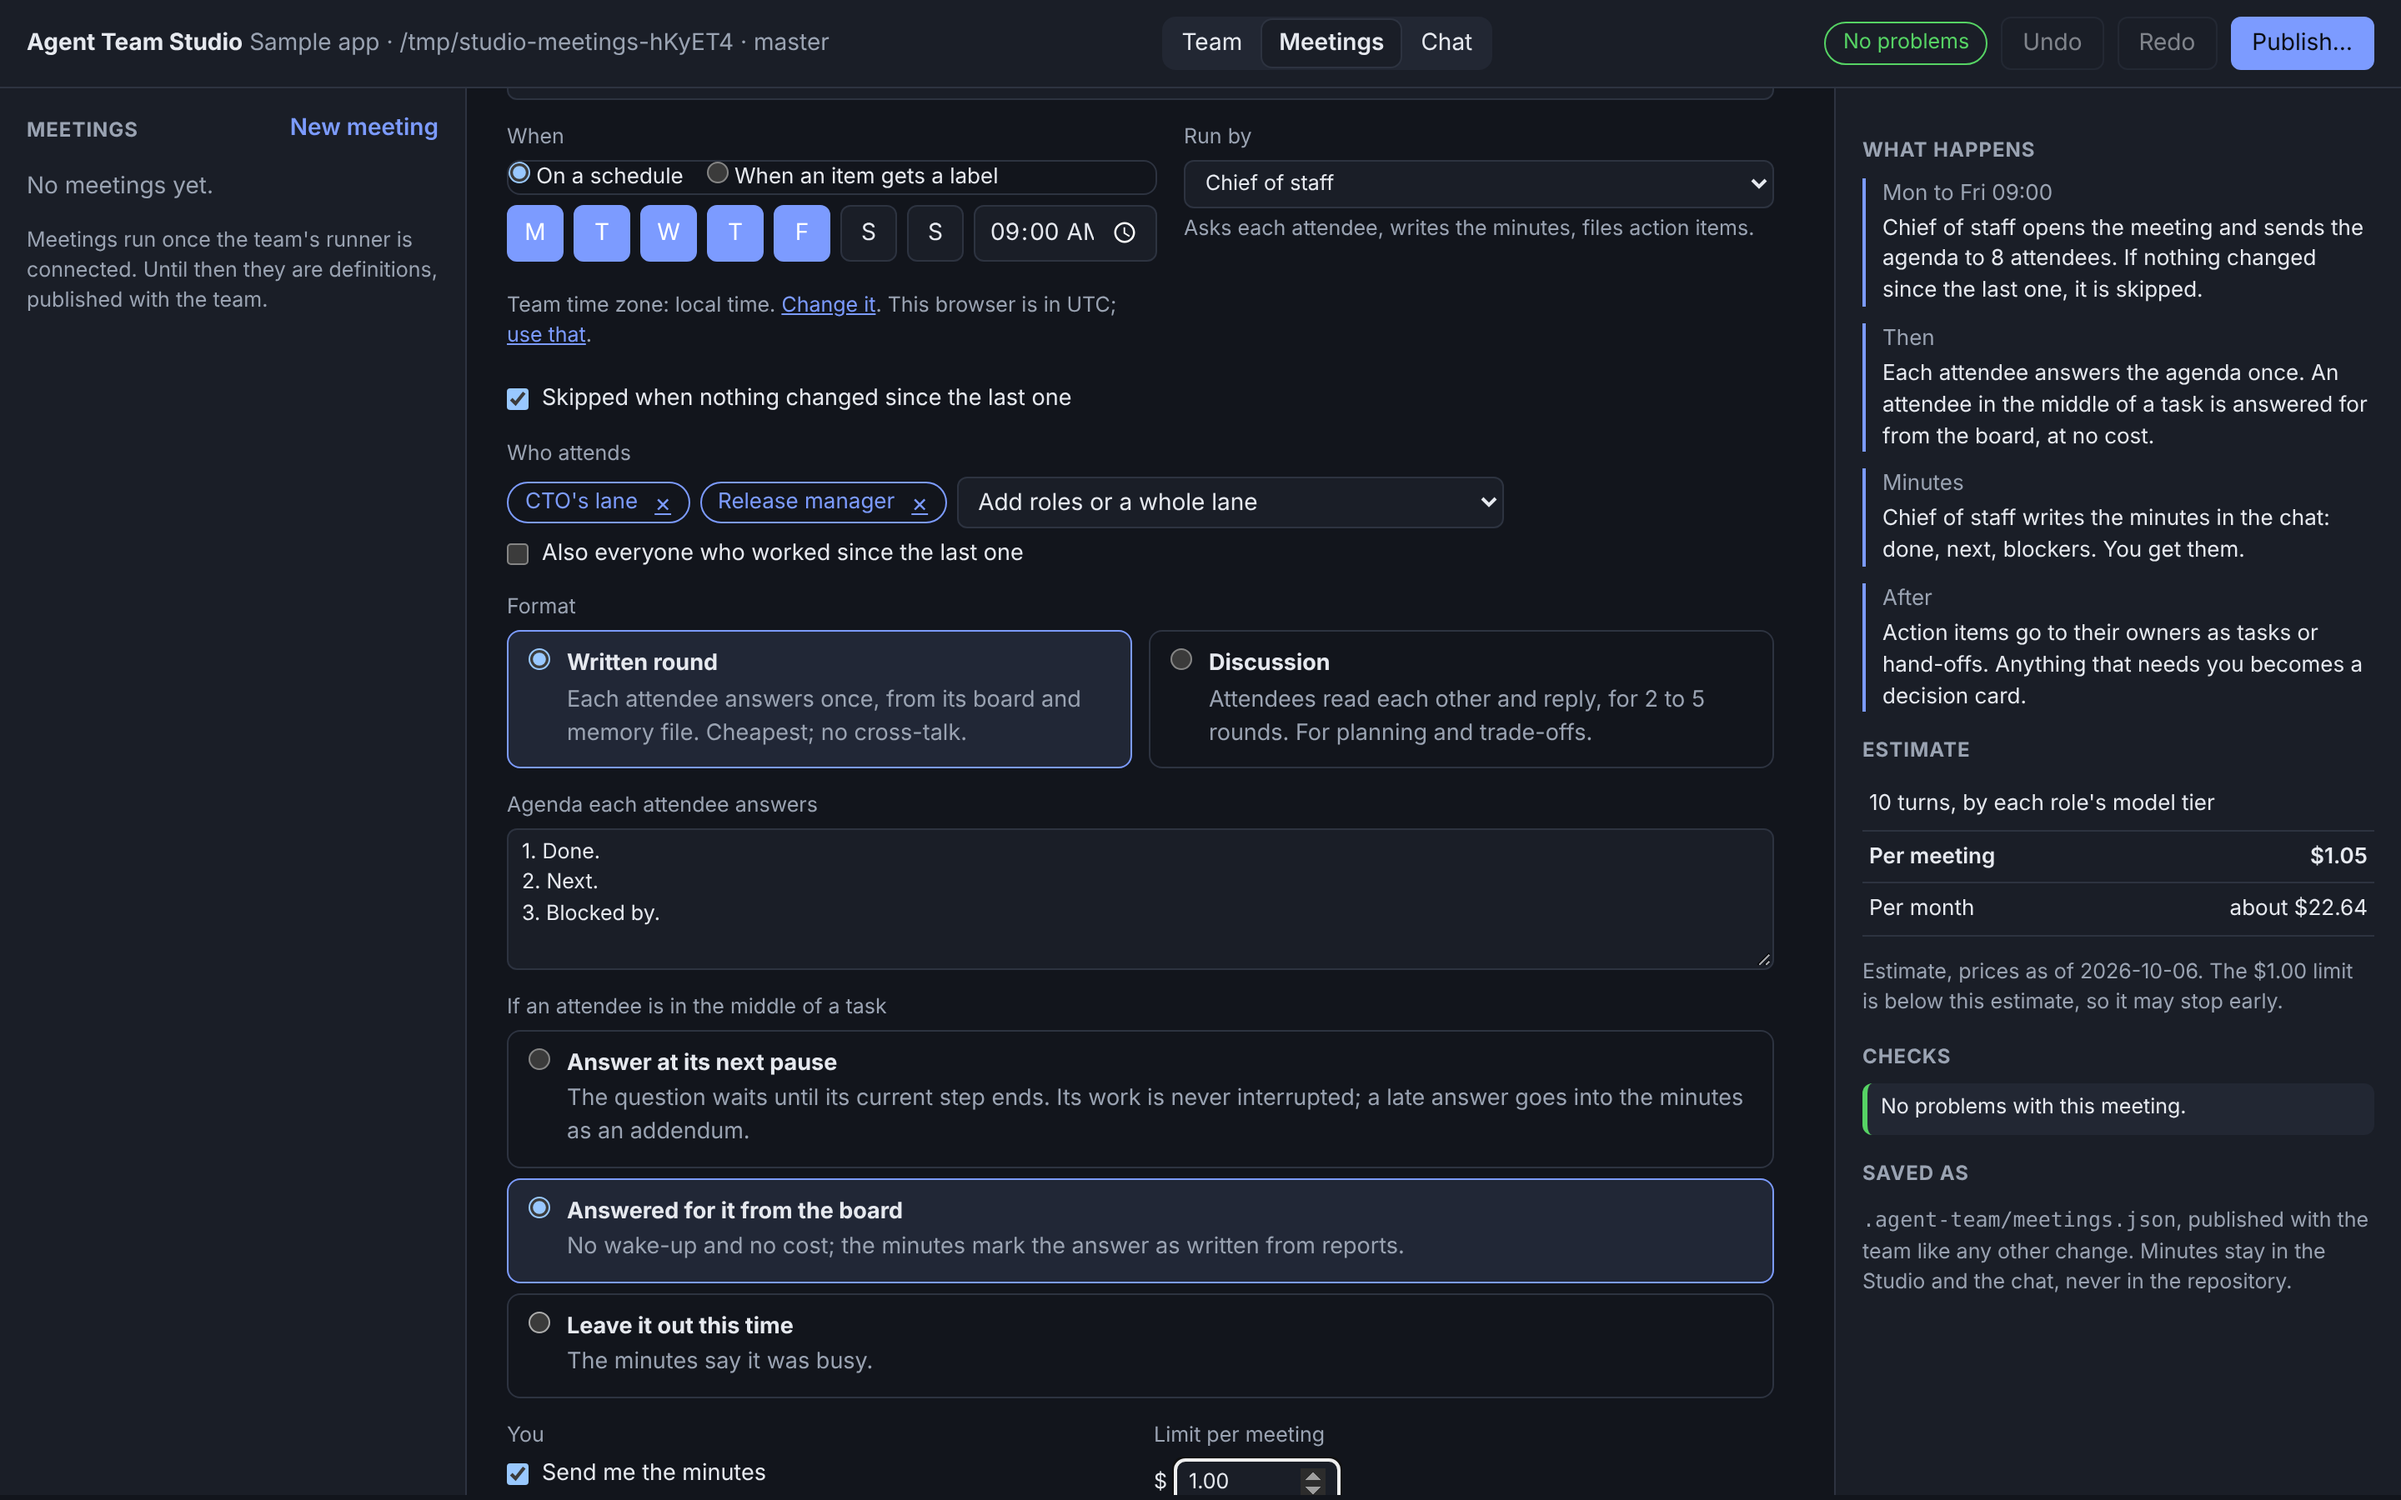
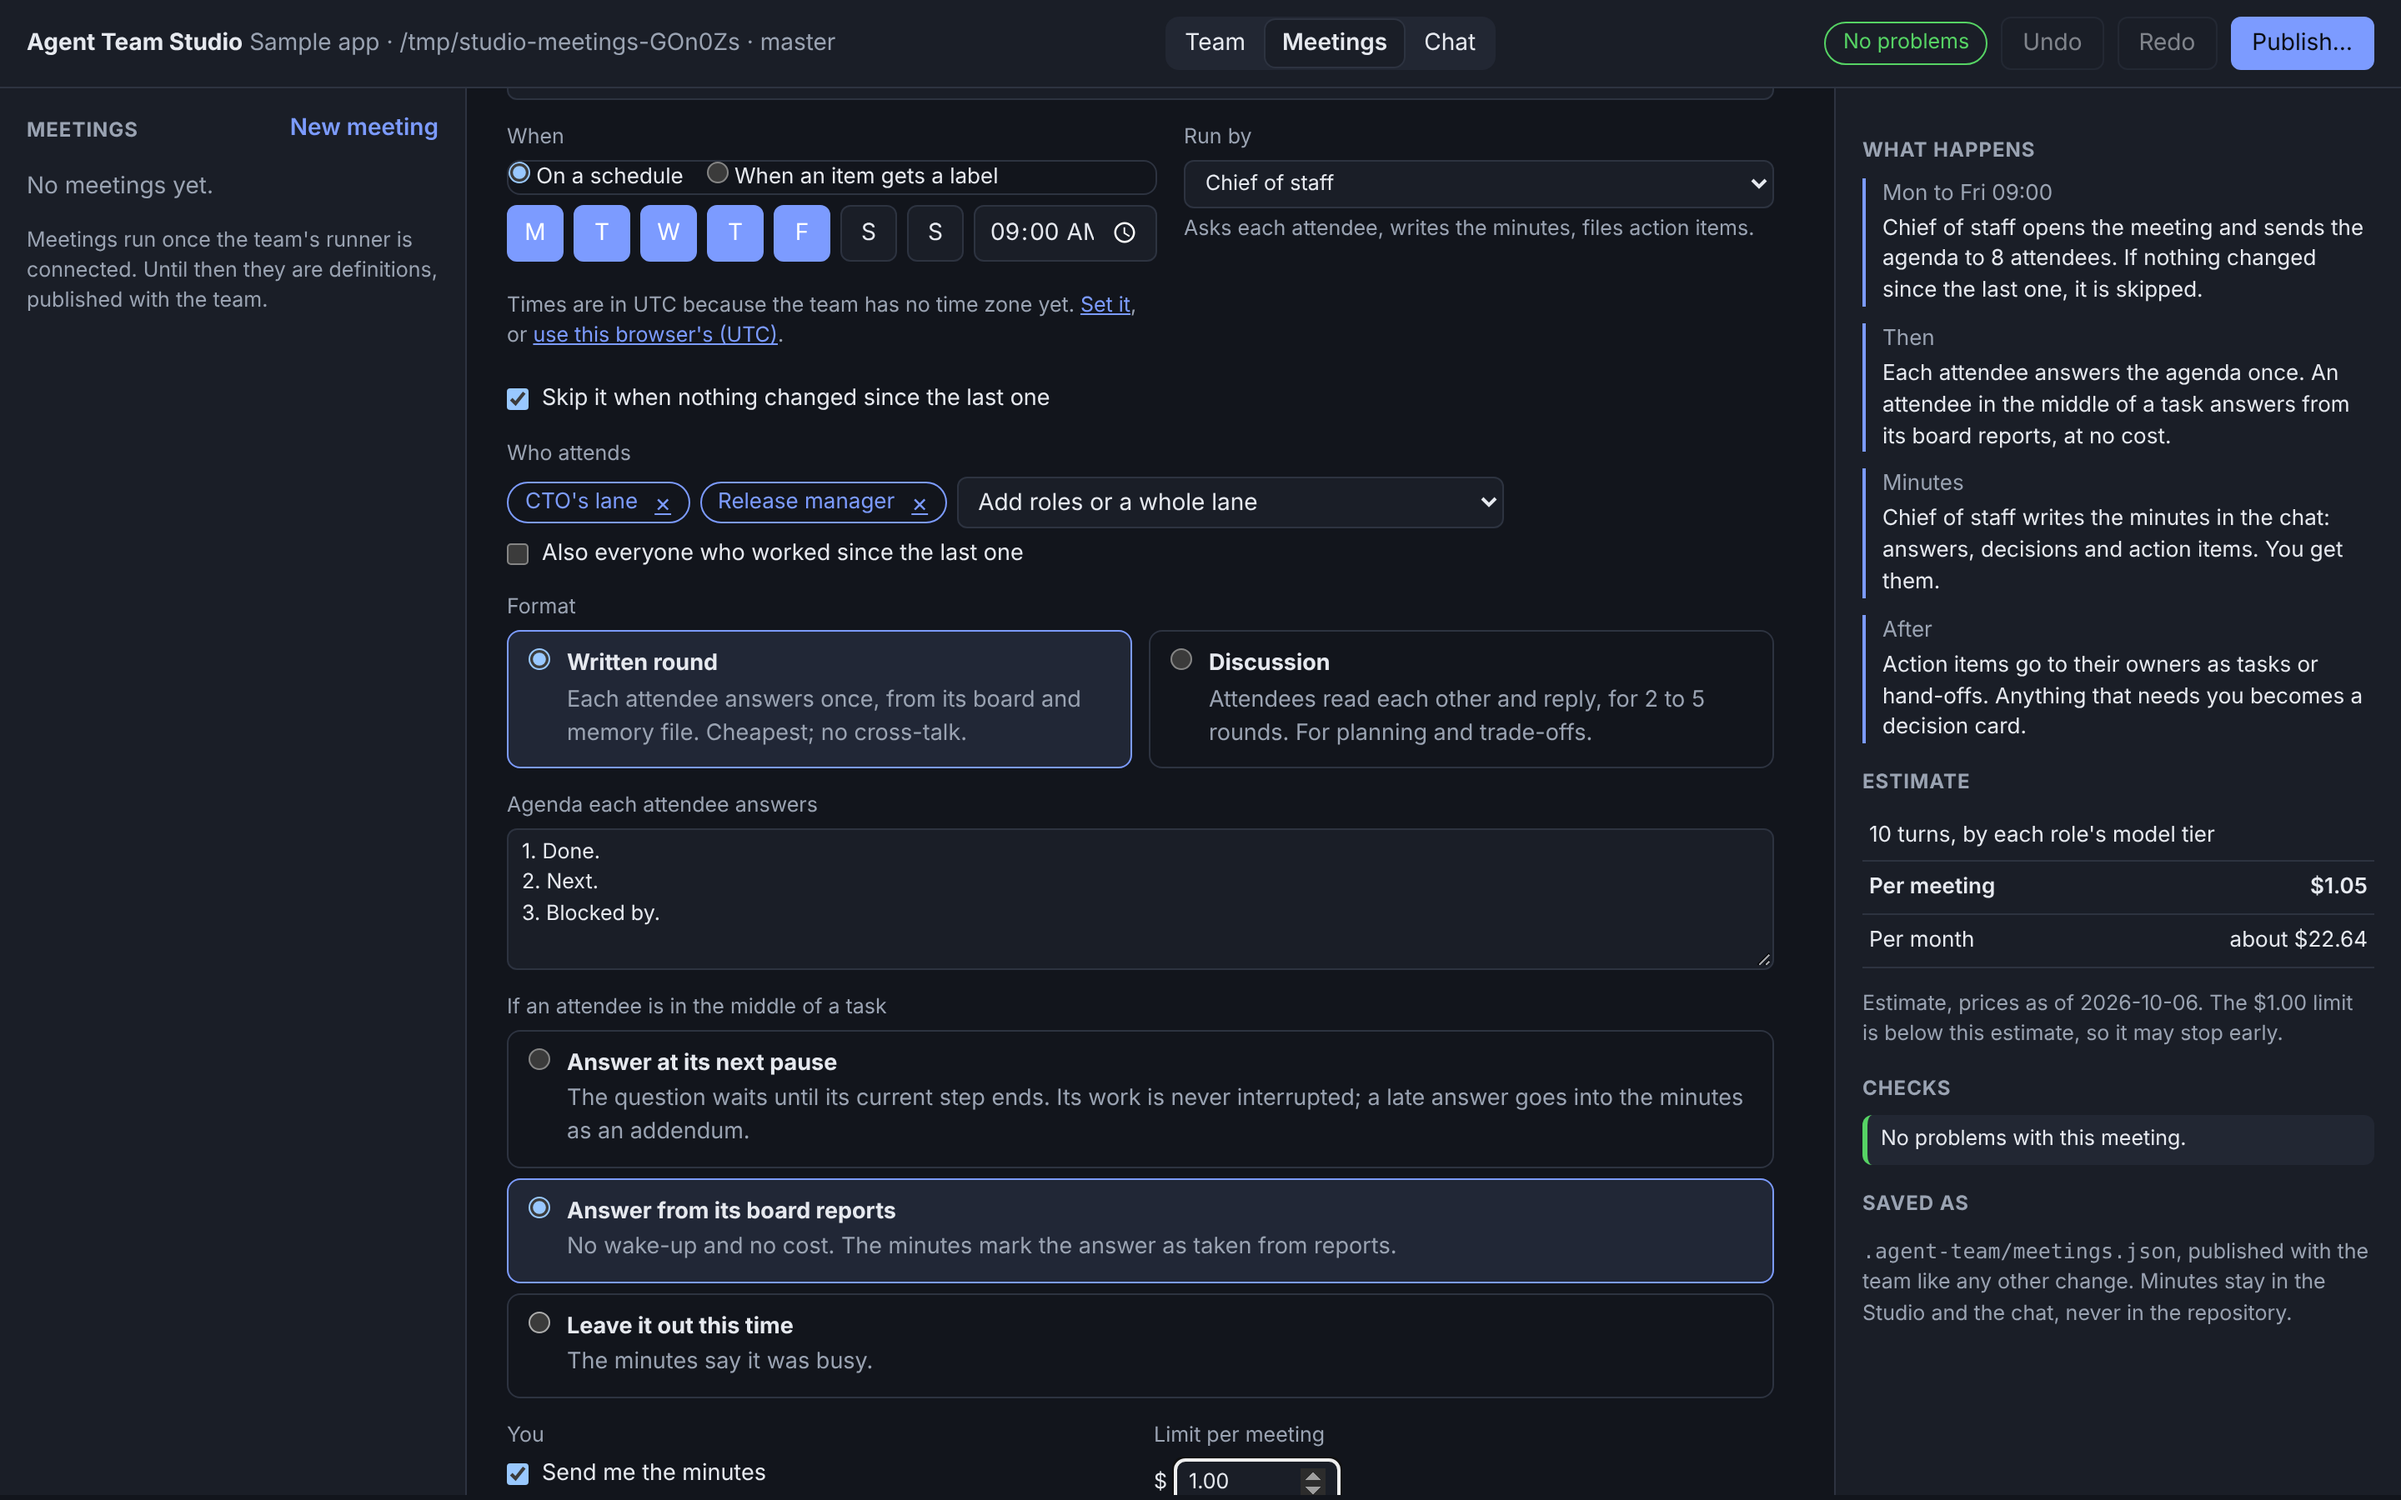
Meetings editor: CPO copy fixes, limit starts at the estimate, review nits
Claude-Session: https://claude.ai/code/session_01CtT1rLNW9YJYwkYiXvhcVj

diff --git a/apps/studio/public/meetings.js b/apps/studio/public/meetings.js
@@ -45,6 +45,7 @@ const idPattern = /^[a-z0-9][a-z0-9-]*$/;
 export function createMeetings({ root, ctx }) {
   let selected = null; // a meeting id, or 'new'
   let form = null; // the meeting being edited, not yet saved
+  let autoCap = false; // a new meeting's limit follows its estimate until the owner sets it
   let dirty = false;
   let note = '';
 
@@ -115,8 +116,8 @@ export function createMeetings({ root, ctx }) {
           <div class="row seg"><label><input type="radio" name="m-kind" value="schedule"${event ? '' : ' checked'}> On a schedule</label><label><input type="radio" name="m-kind" value="event"${event ? ' checked' : ''}> When an item gets a label</label></div>
           ${event ? `<label>When an item gets the label <input id="m-label" value="${esc(f.when.label)}" placeholder="e.g. design"></label><p class="hint">An issue or pull request. Label meetings start once the runner is connected.</p>`
             : `<div class="row days" role="group" aria-label="Days">${DAYS.map((d) => `<button type="button" class="day" data-day="${d}" aria-pressed="${f.when.days?.includes(d) ? 'true' : 'false'}" aria-label="${DAY_NAME[d]}">${DAY_LETTER[d]}</button>`).join('')}<input id="m-at" type="time" value="${esc(f.when.at ?? '')}" aria-label="Time"></div>
-            <p class="hint">Team time zone: ${esc(tz)}. <a href="#" id="m-tz">Change it</a>${(tz === 'UTC' || !validZone(tz)) && browserTz && browserTz !== tz ? `. This browser is in ${esc(browserTz)}; <a href="#" id="m-tz-browser" data-tz="${esc(browserTz)}">use that</a>` : ''}.</p>
-            <label class="switch"><input type="checkbox" id="m-skip"${f.skipIfQuiet ? ' checked' : ''}> Skipped when nothing changed since the last one</label>`}
+            <p class="hint">${validZone(tz) ? `Times are in ${esc(tz)}. <a href="#" id="m-tz">Change it</a>.` : `Times are in UTC because the team has no time zone yet. <a href="#" id="m-tz">Set it</a>${browserTz ? `, or <a href="#" id="m-tz-browser" data-tz="${esc(browserTz)}">use this browser's (${esc(browserTz)})</a>` : ''}.`}</p>
+            <label class="switch"><input type="checkbox" id="m-skip"${f.skipIfQuiet ? ' checked' : ''}> Skip it when nothing changed since the last one</label>`}
         </fieldset>
         <label>Run by <select id="m-runner">${on.map((r) => `<option value="${esc(r.slug)}"${r.slug === f.facilitator ? ' selected' : ''}>${esc(r.title)}</option>`).join('')}</select><span class="hint">Asks each attendee, writes the minutes, files action items.</span></label>
       </div>
@@ -138,7 +139,7 @@ export function createMeetings({ root, ctx }) {
       <label>Agenda each attendee answers <textarea id="m-agenda" rows="4">${esc(f.agenda)}</textarea></label>
       <fieldset><legend>If an attendee is in the middle of a task</legend>
         ${radio('m-busy', 'next-pause', 'Answer at its next pause', 'The question waits until its current step ends. Its work is never interrupted; a late answer goes into the minutes as an addendum.', f.ifBusy === 'next-pause' || !f.ifBusy)}
-        ${radio('m-busy', 'proxy', 'Answered for it from the board', 'No wake-up and no cost; the minutes mark the answer as written from reports.', f.ifBusy === 'proxy')}
+        ${radio('m-busy', 'proxy', 'Answer from its board reports', 'No wake-up and no cost. The minutes mark the answer as taken from reports.', f.ifBusy === 'proxy')}
         ${radio('m-busy', 'skip', 'Leave it out this time', 'The minutes say it was busy.', f.ifBusy === 'skip')}
       </fieldset>
       <div class="m-grid">
@@ -174,11 +175,11 @@ export function createMeetings({ root, ctx }) {
     const runner = titleOf(f.facilitator) || 'The role that runs it';
     const when = f.when.label !== undefined ? `When an item gets the label "${f.when.label || '…'}"` : f.when.at ? `${meetingWhen(f.when).replace(/`/g, '')}` : 'At the time you set';
     const att = `${n} attendee${n === 1 ? '' : 's'}${who.dynamic ? ', plus everyone who worked since the last one' : ''}`;
-    const busy = ({ 'next-pause': 'An attendee in the middle of a task answers when its current step ends.', proxy: 'An attendee in the middle of a task is answered for from the board, at no cost.', skip: 'An attendee in the middle of a task is left out this time.' })[f.ifBusy ?? 'next-pause'];
+    const busy = ({ 'next-pause': 'An attendee in the middle of a task answers when its current step ends.', proxy: 'An attendee in the middle of a task answers from its board reports, at no cost.', skip: 'An attendee in the middle of a task is left out this time.' })[f.ifBusy ?? 'next-pause'];
     const steps = [
       [when, `${runner} opens the meeting and sends the agenda to ${att}.${f.skipIfQuiet && f.when.label === undefined ? ' If nothing changed since the last one, it is skipped.' : ''}`],
       ['Then', `${f.format === 'discussion' ? `Attendees answer and reply to each other, ${f.rounds ?? 3} rounds (a written round until the runner supports discussions).` : 'Each attendee answers the agenda once.'} ${busy}`],
-      ['Minutes', `${runner} writes the minutes in the chat: done, next, blockers.${f.owner?.minutes !== false ? ' You get them.' : ''}${f.owner?.speaks ? ' You can speak during it.' : ''}`],
+      ['Minutes', `${runner} writes the minutes in the chat: answers, decisions and action items.${f.owner?.minutes !== false ? ' You get them.' : ''}${f.owner?.speaks ? ' You can speak during it.' : ''}`],
       ['After', 'Action items go to their owners as tasks or hand-offs. Anything that needs you becomes a decision card.'],
     ];
     return `<ol class="timeline-steps">${steps.map(([t, d]) => `<li><span class="muted">${esc(t)}</span><span>${esc(d)}</span></li>`).join('')}</ol>`;
@@ -229,14 +230,25 @@ export function createMeetings({ root, ctx }) {
     const m = list().find((x) => x.id === id);
     if (!m) return;
     selected = id;
+    autoCap = false;
     form = { ...structuredClone(m), attendees: { roles: [], lanes: [], rule: null, ...structuredClone(m.attendees ?? {}) }, owner: { minutes: true, speaks: false, ...(m.owner ?? {}) } };
     dirty = false;
     note = '';
     if (!quiet) render();
   }
 
+  /** A new meeting's limit starts at its estimate rounded up to the next dollar, at least $1. */
+  function fitCap() {
+    const prices = ctx.prices();
+    if (!autoCap || !form || !prices) return;
+    form.capUsd = Math.max(1, Math.ceil(meetingEstimate(form, ctx.resolved(), prices).perMeetingUsd));
+    const input = root.querySelector('#m-cap');
+    if (input) input.value = String(form.capUsd);
+  }
+
   function edit(fn, { redraw = false } = {}) {
     fn(form);
+    fitCap();
     dirty = true;
     note = '';
     if (redraw) render(); else refresh();
@@ -244,7 +256,7 @@ export function createMeetings({ root, ctx }) {
 
   function save() {
     const f = structuredClone(form);
-    if (!f.title.trim()) return;
+    if (!f.title.trim()) { note = 'Give the meeting a title first.'; return render(); }
     if (selected === 'new' && !idPattern.test(f.id)) f.id = slugify(f.title);
     if (f.format !== 'discussion') f.rounds = 1;
     if (!f.attendees.rule) f.attendees.rule = null;
@@ -270,7 +282,7 @@ export function createMeetings({ root, ctx }) {
     if (b.dataset.starter) {
       if (dirty && !confirm('Discard the changes to this meeting?')) return;
       b.closest('details')?.removeAttribute('open');
-      selected = 'new'; form = fresh(b.dataset.starter === 'blank' ? null : b.dataset.starter); dirty = true; note = '';
+      selected = 'new'; form = fresh(b.dataset.starter === 'blank' ? null : b.dataset.starter); autoCap = true; fitCap(); dirty = true; note = '';
       render();
       root.querySelector('#m-title')?.focus();
       return;
@@ -296,7 +308,7 @@ export function createMeetings({ root, ctx }) {
     if (t.id === 'm-agenda') return edit((f) => { f.agenda = t.value; });
     if (t.id === 'm-label') return edit((f) => { f.when = { label: t.value }; });
     if (t.id === 'm-at') return edit((f) => { f.when.at = t.value; });
-    if (t.id === 'm-cap') return edit((f) => { f.capUsd = Number(t.value); });
+    if (t.id === 'm-cap') { autoCap = false; return edit((f) => { f.capUsd = Number(t.value); }); }
   });
   root.addEventListener('change', (e) => {
     const t = e.target;
